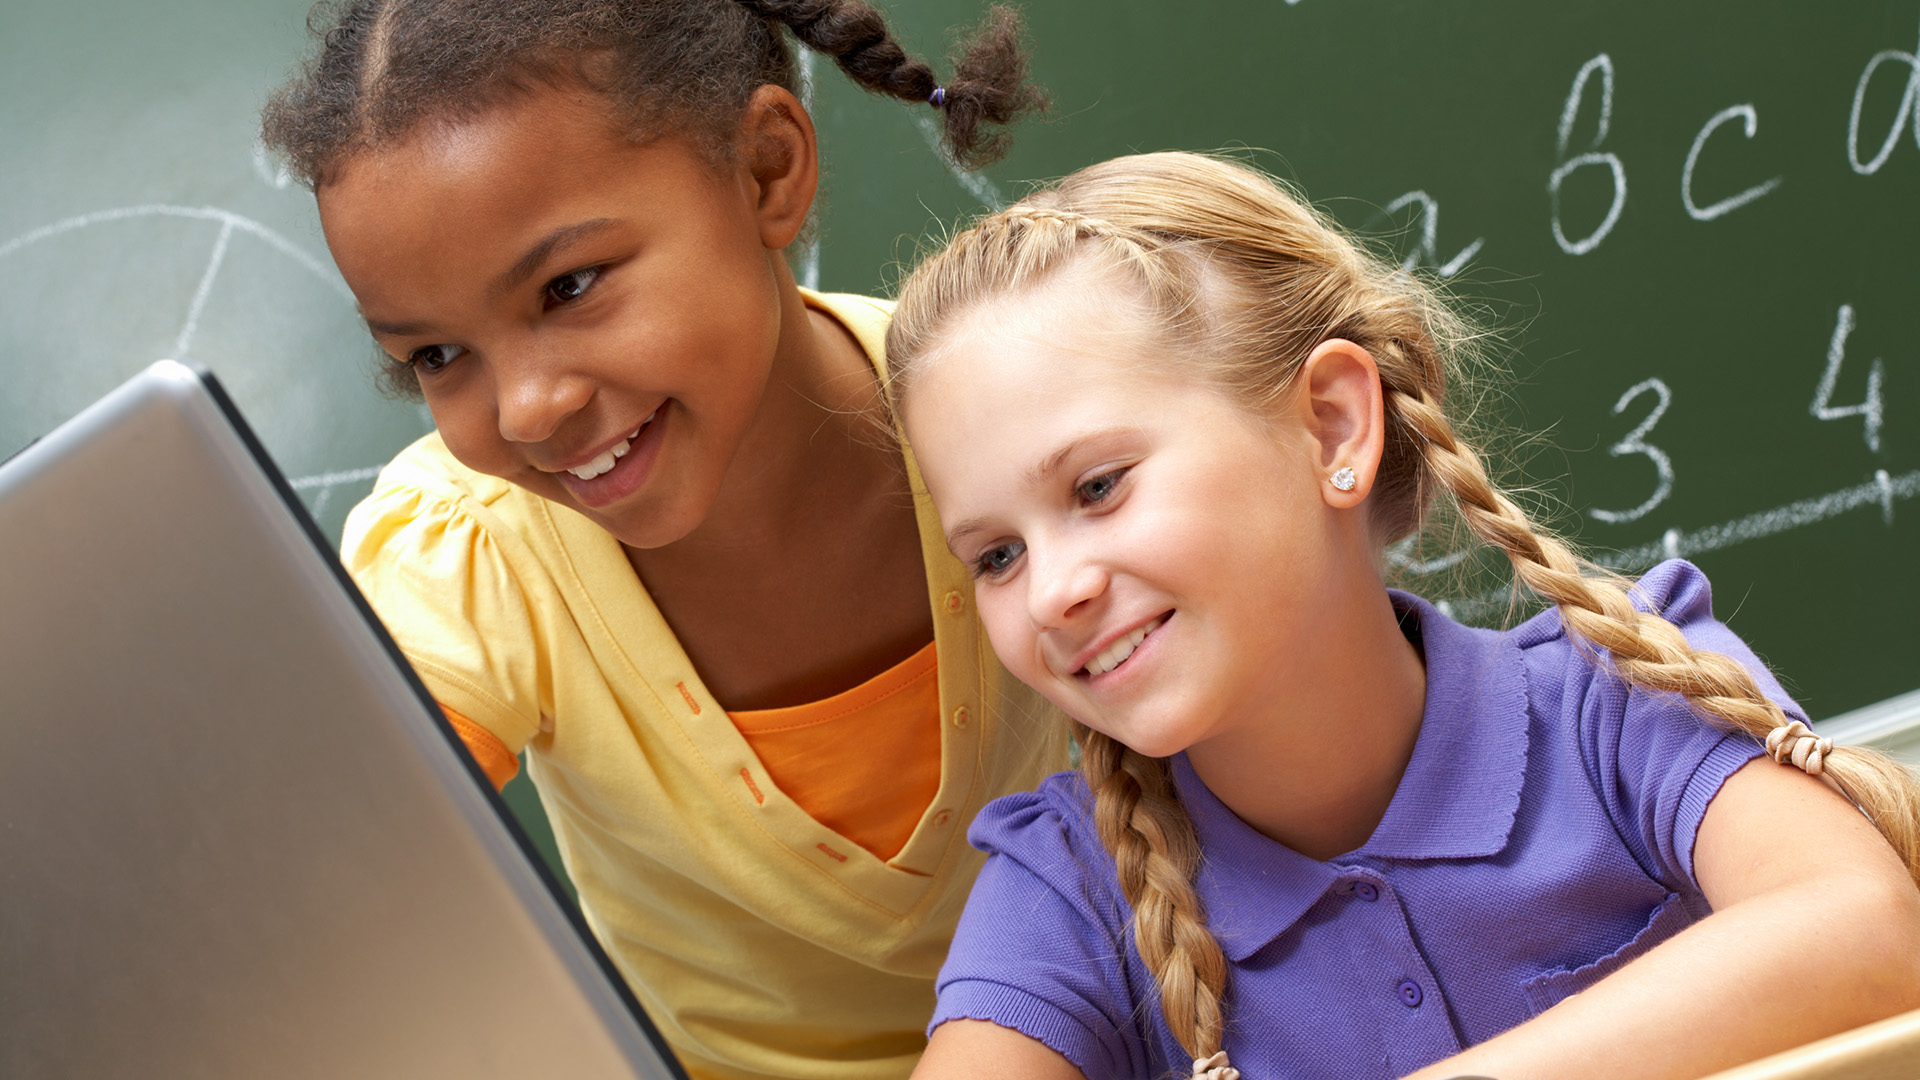
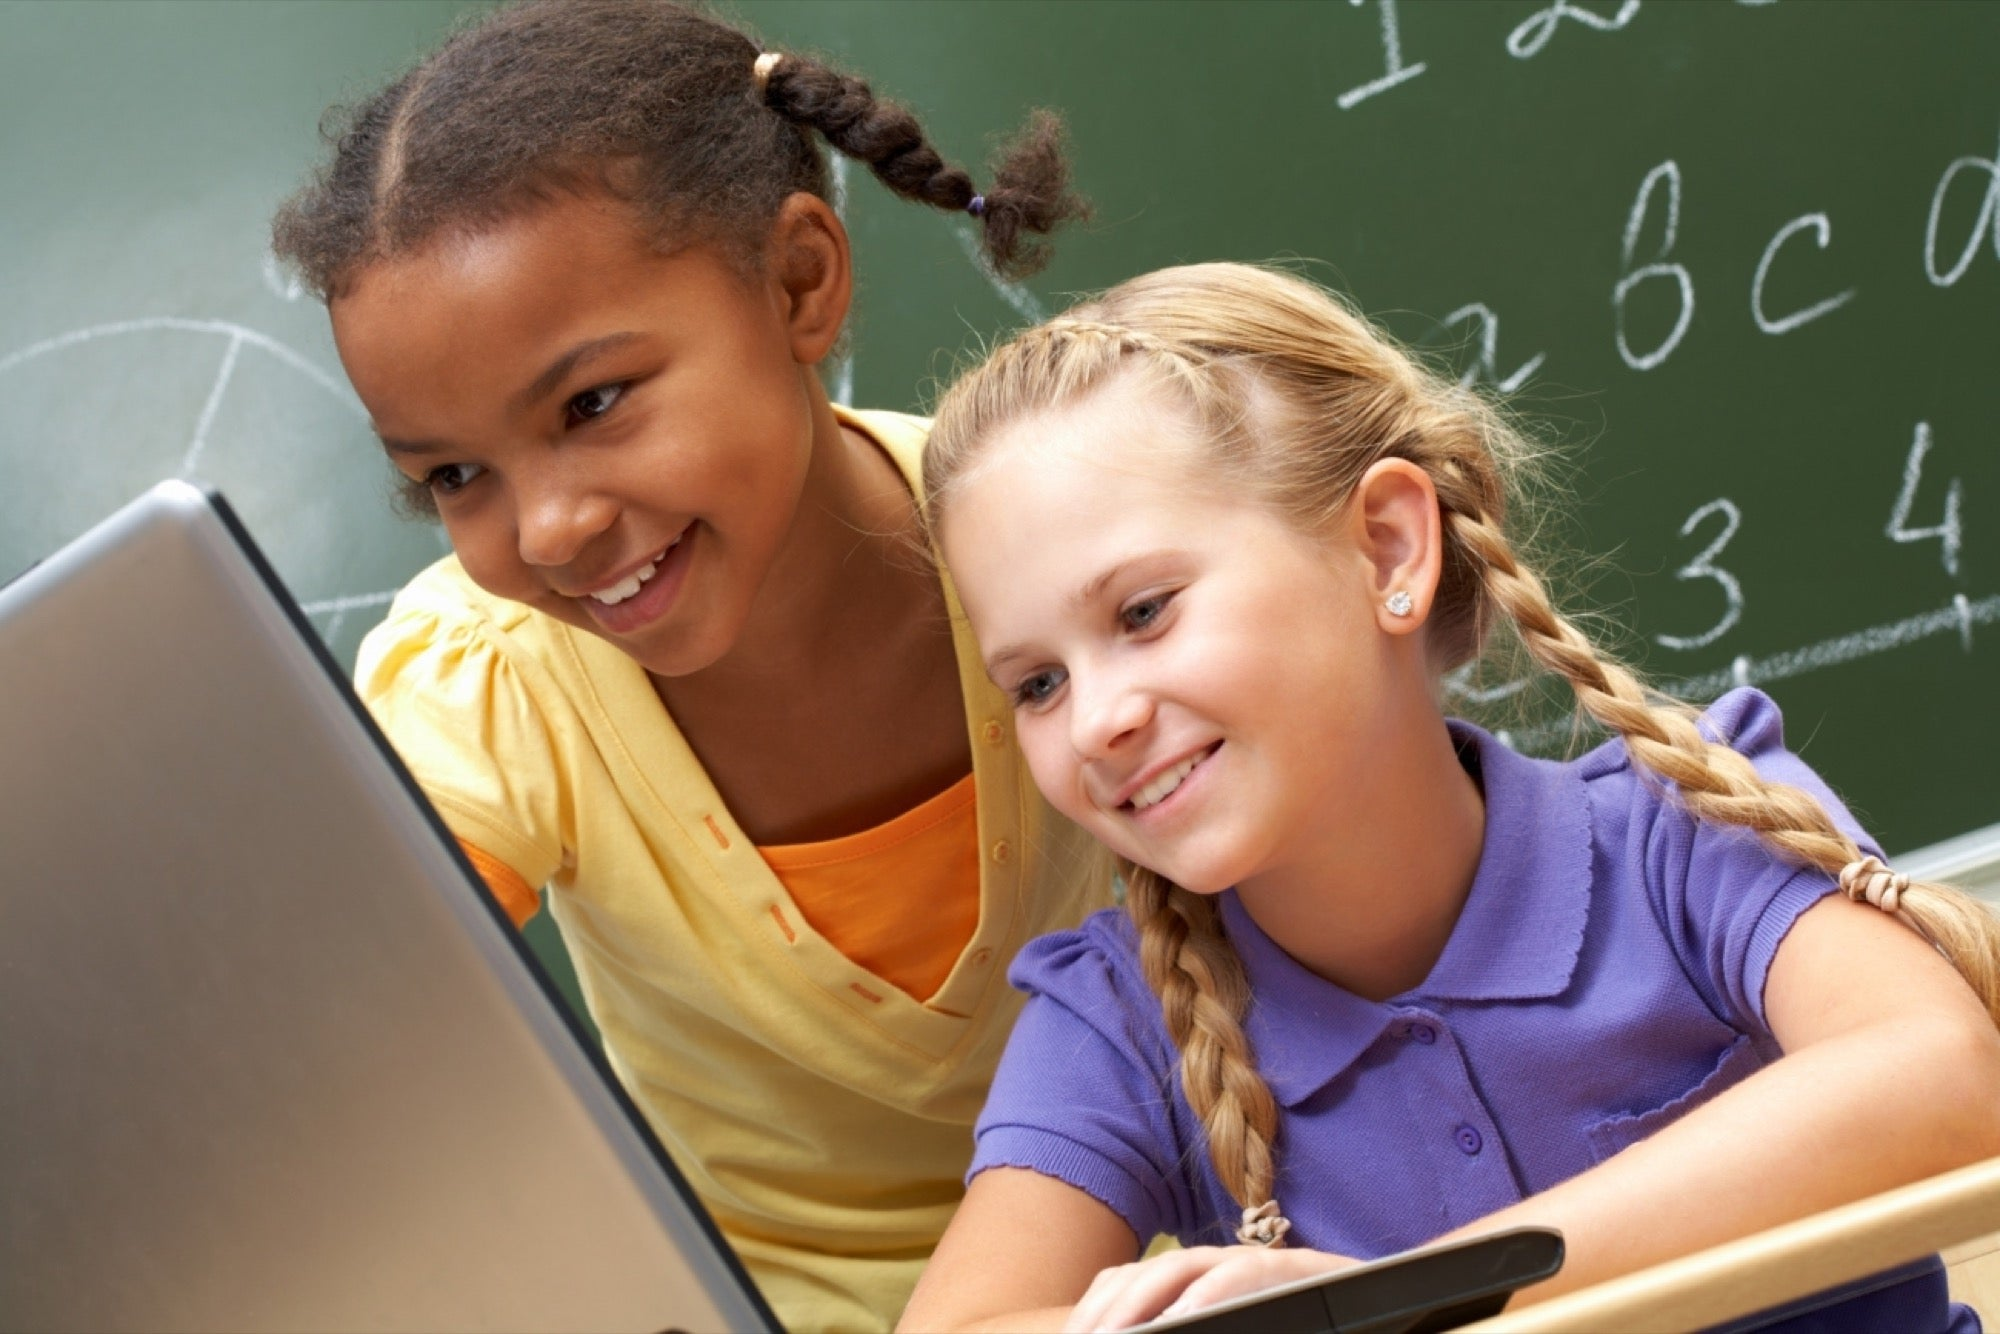
before added more pages and better donate page

diff --git a/src/pages/donate/index.js b/src/pages/donate/index.js
@@ -1,16 +1,13 @@
-import React, { Component, Fragment } from 'react';
+import React, { Component } from 'react';
 import compose from 'recompose/compose'
 import PropTypes from "prop-types";
 import classNames from "classnames";
 import withStyles from "@material-ui/core/styles/withStyles";
 import GridContainer from "components/Grid/GridContainer.jsx";
 import GridItem from "components/Grid/GridItem.jsx";
-import Button from "components/CustomButtons/Button.jsx";
+// import Button from "components/CustomButtons/Button.jsx";
 import Card from "components/Card/Card.jsx";
 import CardBody from "components/Card/CardBody.jsx";
-import CustomInput from "components/CustomInput/CustomInput.jsx";
-import Mail from "@material-ui/icons/Mail";
-import InputAdornment from "@material-ui/core/InputAdornment";
 import FormControl from "@material-ui/core/FormControl";
 import InputLabel from "@material-ui/core/InputLabel";
 import Select from "@material-ui/core/Select";
@@ -53,20 +50,20 @@ class Donate extends Component {
                               <h3 color="white" className={classes.title}>You're making a difference</h3>
                               <p className={classes.description}>
                                 <br />
-                                You have the power to help SaMi improve. Your investment will help SaMi beat the odds. 
+                                You have the power to help more students improve their math skills. Your investment will benefit all students in the greater San Antonio area to reveive the best math education. 
                               </p>
                             </div>
                             <Card raised className={classes.card}>
 
                               <CardBody className={classes.cardBody}>
-                                <h5 className={classes.cardTitle}>Donate to SaMi </h5>
+                                <h5 className={classes.cardTitle}>Donate to San Antonio Math Include </h5>
                                 <FormControl
                                   fullWidth
                                   className={classes.selectFormControl}>
                                   <InputLabel
                                       htmlFor="simple-select"
                                       className={classes.selectLabel}>
-                                      Select Donation Amount
+                                    Donation Amount
                                   </InputLabel>
                                   <Select
                                       MenuProps={{
@@ -125,7 +122,7 @@ class Donate extends Component {
                                 <form
                                   action="https://www.paypal.com/cgi-bin/webscr"
                                   method="post"
-                                  target="_top"
+                                  target="_blank"
                                 >
                                   <input type="hidden" name="cmd" value="_s-xclick" />
                                   <input type="hidden" name="hosted_button_id" value="GRHSFUQSWWHZJ" />
@@ -147,7 +144,7 @@ class Donate extends Component {
                                   />
                                 </form>
                                   <p className={classes.description}>
-                                    Click Button Above. Powered by PayPal.
+                                    Please click the button above to donate. PayPal account is not required.
                                   </p>
                               </CardBody>
                             </Card>

diff --git a/src/pages/register_program/components/SectionProgramPills.jsx b/src/pages/register_program/components/SectionProgramPills.jsx
@@ -22,25 +22,17 @@ import compose from 'recompose/compose'
 import PropTypes from "prop-types";
 // @material-ui/core components
 import withStyles from "@material-ui/core/styles/withStyles";
-import Tooltip from "@material-ui/core/Tooltip";
-import Checkbox from "@material-ui/core/Checkbox";
-import FormControlLabel from "@material-ui/core/FormControlLabel";
 // @material-ui/icons
 import FormatAlignLeft from "@material-ui/icons/FormatAlignLeft";
-// @material-ui/icons
-import PinDrop from "@material-ui/icons/PinDrop";
-import Phone from "@material-ui/icons/Phone";
-import Check from "@material-ui/icons/Check";
 // core components
 import GridContainer from "components/Grid/GridContainer.jsx";
 import GridItem from "components/Grid/GridItem.jsx";
 import NavPills from "components/NavPills/NavPills.jsx";
-import InfoArea from "components/InfoArea/InfoArea.jsx";
 import Card from "components/Card/Card.jsx";
 import CardHeader from "components/Card/CardHeader.jsx";
 import CardBody from "components/Card/CardBody.jsx";
 import CardFooter from "components/Card/CardFooter.jsx";
-import CustomInput from "components/CustomInput/CustomInput.jsx";
+// import CustomInput from "components/CustomInput/CustomInput.jsx";
 import Button from "components/CustomButtons/Button.jsx";
 
 import mathTwoGirls from "../../../static/math_two_girls.jpg";
@@ -146,10 +138,10 @@ function SectionProgramPills({ ...props }) {
                       </GridItem>
                       
                     </GridContainer>
-                    <ProgramFormWrapper className={props.formClicked && props.selectedForm == 0? 'clicked' : ''}>
+                    <ProgramFormWrapper className={props.formClicked && props.selectedForm === 0? 'clicked' : ''}>
                       Student Register Form
                     </ProgramFormWrapper>
-                    <ProgramFormWrapper className={props.formClicked && props.selectedForm == 1? 'clicked' : ''}>
+                    <ProgramFormWrapper className={props.formClicked && props.selectedForm === 1? 'clicked' : ''}>
                       <Card className={classes.card2}>
                         <CardHeader contact color="info" className={classes.textCenter}>
                           <h4 className={classes.cardTitle}>Tutor Register Form</h4>

diff --git a/src/pages/register_program/index.js b/src/pages/register_program/index.js
@@ -1,6 +1,7 @@
 import React, { PureComponent } from 'react';
-import { connect } from 'react-redux';
-import PropTypes from "prop-types";
+import classNames from "classnames";
+// import { connect } from 'react-redux';
+// import PropTypes from "prop-types";
 import withStyles from "@material-ui/core/styles/withStyles";
 
 import GridContainer from "components/Grid/GridContainer.jsx";
@@ -13,7 +14,7 @@ import {
 } from "./style";
 
 import blogPostsPageStyle from "assets/jss/material-kit-pro-react/views/blogPostsPageStyle.jsx";
-import bgImage from "../../static/math_chalkboard.jpg";
+import bgImage from "../../static/children.jpg";
 
 class RegisterProgram extends PureComponent {
     render() {
@@ -21,8 +22,7 @@ class RegisterProgram extends PureComponent {
 
         return (
             <RegisterFormWrapper>
-
-                <Parallax image={bgImage} filter="info" small>
+                <Parallax image={bgImage} filter="dark" small>
                   <div className={classes.container}>
                     <GridContainer justify="center">
                       <GridItem xs={12} sm={12} md={8} className={classes.textCenter}>
@@ -33,7 +33,7 @@ class RegisterProgram extends PureComponent {
                     </GridContainer>
                   </div>
                 </Parallax>
-                <div className={classes.main}>
+                <div className={classNames(classes.main, classes.mainRaised)}>
                   <div className={classes.container}>
                     <SectionProgramPills />
                   </div>

diff --git a/src/common/header/index.js b/src/common/header/index.js
@@ -1,13 +1,32 @@
 import React, { PureComponent } from 'react';
 import { connect } from 'react-redux';
-import MKHeader from './components/MKHeader'
+import compose from 'recompose/compose'
 // import { actionCreators } from './store';
+import withStyles from "@material-ui/core/styles/withStyles";
+import MKHeader from "components/Header/Header.jsx";
+import landingPageStyle from "assets/jss/material-kit-pro-react/views/landingPageStyle.jsx";
+import HeaderLinks from "./components/HeaderLinks.jsx";
+// import { 
+//   HeaderWrapper,
+//  } from "./style";
 
 class Header extends PureComponent {
 
     render() {
+        const { classes, ...rest } = this.props;
+        // console.log(classes)
         return (
-            <MKHeader />
+            <MKHeader
+                color="transparent"
+                brand="San Antonio Math Include"
+                links={<HeaderLinks dropdownHoverColor="info" />}
+                fixed
+                changeColorOnScroll={{
+                    height: 100,
+                    color: "white"
+                }}
+                {...rest}
+            />
         );
     }
 }
@@ -24,4 +43,7 @@ const mapDispatchToProps = (dispatch) => {
     }
 }
 
-export default connect(mapStateToProps, mapDispatchToProps)(Header)
+export default compose(
+    withStyles(landingPageStyle),
+    connect(mapStateToProps, mapDispatchToProps)
+)(Header)

diff --git a/src/material-kit/components/Header/Header.jsx b/src/material-kit/components/Header/Header.jsx
@@ -34,6 +34,15 @@ import Close from "@material-ui/icons/Close";
 // core components
 import headerStyle from "assets/jss/material-kit-pro-react/components/headerStyle.jsx";
 
+// for adding logo
+// import { 
+//   LogoWhite,
+//   LogoBlack
+//  } from "../../../style";
+
+// default logo
+ // var Logo = LogoBlack;
+
 class Header extends React.Component {
   constructor(props) {
     super(props);
@@ -55,6 +64,7 @@ class Header extends React.Component {
     const { classes, color, changeColorOnScroll } = this.props;
     const windowsScrollTop = window.pageYOffset;
     if (windowsScrollTop > changeColorOnScroll.height) {
+      // console.log('change header color!!!!!!!')
       document.body
         .getElementsByTagName("header")[0]
         .classList.remove(classes[color]);
@@ -87,7 +97,10 @@ class Header extends React.Component {
       <AppBar className={appBarClasses}>
         <Toolbar className={classes.container}>
           <Button className={classes.title}>
-            <Link to="/">{brand}</Link>
+            <Link to="/">
+              {/* <Logo /> */}
+              {brand}
+            </Link>
           </Button>
           <Hidden smDown implementation="css" className={classes.hidden}>
             <div className={classes.collapse}>{links}</div>

diff --git a/src/pages/home/index.js b/src/pages/home/index.js
@@ -7,12 +7,11 @@ import Parallax from "components/Parallax/Parallax.jsx";
 import landingPageStyle from "assets/jss/material-kit-pro-react/views/landingPageStyle.jsx";
 import GridContainer from "components/Grid/GridContainer.jsx";
 import GridItem from "components/Grid/GridItem.jsx";
-import Button from "components/CustomButtons/Button.jsx";
 import {
     HomeWrapper
 } from "./style";
 import Section from "./components/section";
-import bgImage from "../../static/geo_bg.jpg";
+import bgImage from "../../static/dice.jpg";
 
 
 class Home extends PureComponent {
@@ -21,7 +20,7 @@ class Home extends PureComponent {
 
         return (
             <HomeWrapper>
-                <Parallax image={bgImage}>
+                <Parallax image={bgImage} >
                     <div className={classes.container}>
                         <GridContainer>
                           <GridItem xs={12} sm={8} md={6}>

diff --git a/src/common/header/components/HeaderLinks.jsx b/src/common/header/components/HeaderLinks.jsx
@@ -210,7 +210,7 @@ const HeaderLinks = ({ ...props }) => {
       </ListItem>
       
     </List>
-
+  {/* 
     <SearchWrapper className={classes.mlAuto}>
       <CustomInput
         white
@@ -227,7 +227,7 @@ const HeaderLinks = ({ ...props }) => {
         }}
       />
     </SearchWrapper>
-    
+    */}
     <List className={classes.list + " " + classes.mlAuto}>
       <ListItem className={classes.listItem}>
           <Button
@@ -255,11 +255,13 @@ const HeaderLinks = ({ ...props }) => {
             DONATE
           </Button>
       </ListItem>
+      
+      {/* color={window.pageYOffset < 100 ? "rose" : "rose"} */}
       <ListItem className={classes.listItem}>
         <Button
           component={ Link }
           to="/register-program"
-          color={window.innerWidth < 960 ? "info" : "white"}
+          color="rose"
           className={classes.navButton}
           round
         >

diff --git a/src/common/header/style.js b/src/common/header/style.js
@@ -1,22 +1,8 @@
 import styled from 'styled-components';
-import logoPic from '../../static/sami_logo_white_tran_trim.png'
-// background: url(${logoPic});
 
-export const LogoWrapper = styled.a.attrs({
-    href: '/'
-})`
-    position: absolute; 
-    top: 0;
-    left: 0px;
-    display: block;
-`;
+// export const HeaderWrapper = styled.div`
 
-export const Logo = styled.img.attrs({
-    src: logoPic,
-    alt: 'sami_logo'
-})`
-    width: 70px;
-`;
+// `;
 
 export const IconSpan = styled.span.attrs({
     className: 'iconfont'
@@ -32,8 +18,4 @@ export const IconSpan = styled.span.attrs({
         font-size: 25px;
         margin-top: 0px;
     }
-`;
-
-export const SearchWrapper = styled.div`
-    margin-top: -18px;
 `;

diff --git a/src/App.js b/src/App.js
@@ -18,9 +18,11 @@ function App() {
             <GlobalIconfont/>
             <BrowserRouter>
                 <Header />
-                    <Route path='/' exact component={Home}></Route>
-                    <Route path='/donate' exact component={Donate}></Route>
-                    <Route path='/register-program' exact component={RegisterProgram}></Route>
+
+                <Route path='/' exact component={Home}></Route>
+                <Route path='/donate' exact component={Donate}></Route>
+                <Route path='/register-program' exact component={RegisterProgram}></Route>
+                
                 <Footer />
             </BrowserRouter>
         </Provider>

diff --git a/src/style.js b/src/style.js
@@ -1,5 +1,9 @@
 // didn't use
 import { createGlobalStyle } from 'styled-components';
+import styled from 'styled-components';
+
+import logoPicWhite from './static/sami_logo_white_tran_trim.png'
+import logoPicBlack from './static/sami_logo_black_tran_trim.png'
 
 /* color: ${props => (props.greenFont ? 'green' : 'black')}; */
 
@@ -79,3 +83,17 @@ export const Globalstyle = createGlobalStyle`
             monospace;
     }
 `
+
+export const LogoWhite = styled.img.attrs({
+    src: logoPicWhite,
+    alt: 'SaMi logo'
+})`
+    width: 45px;
+`;
+
+export const LogoBlack = styled.img.attrs({
+    src: logoPicBlack,
+    alt: 'SaMi logo'
+})`
+    width: 45px;
+`;

diff --git a/src/pages/home/components/section.js b/src/pages/home/components/section.js
@@ -40,6 +40,7 @@ class Section extends PureComponent  {
                           color="rose"
                           target="_blank"
                           className={classes.navButton}
+                          rel="noopener noreferrer"
                           round
                         >
                           View More

diff --git a/src/store/sagas.js b/src/store/sagas.js
@@ -1,6 +1,6 @@
 import { all } from 'redux-saga/effects';
 import { headerSagas } from '../common/header/store';
-import { ResigterProgramSagas } from '../pages/register_program/store';
+// import { ResigterProgramSagas } from '../pages/register_program/store';
 // function* getInputChangeAction() {
 //     console.log('hello saga!')
 // }
